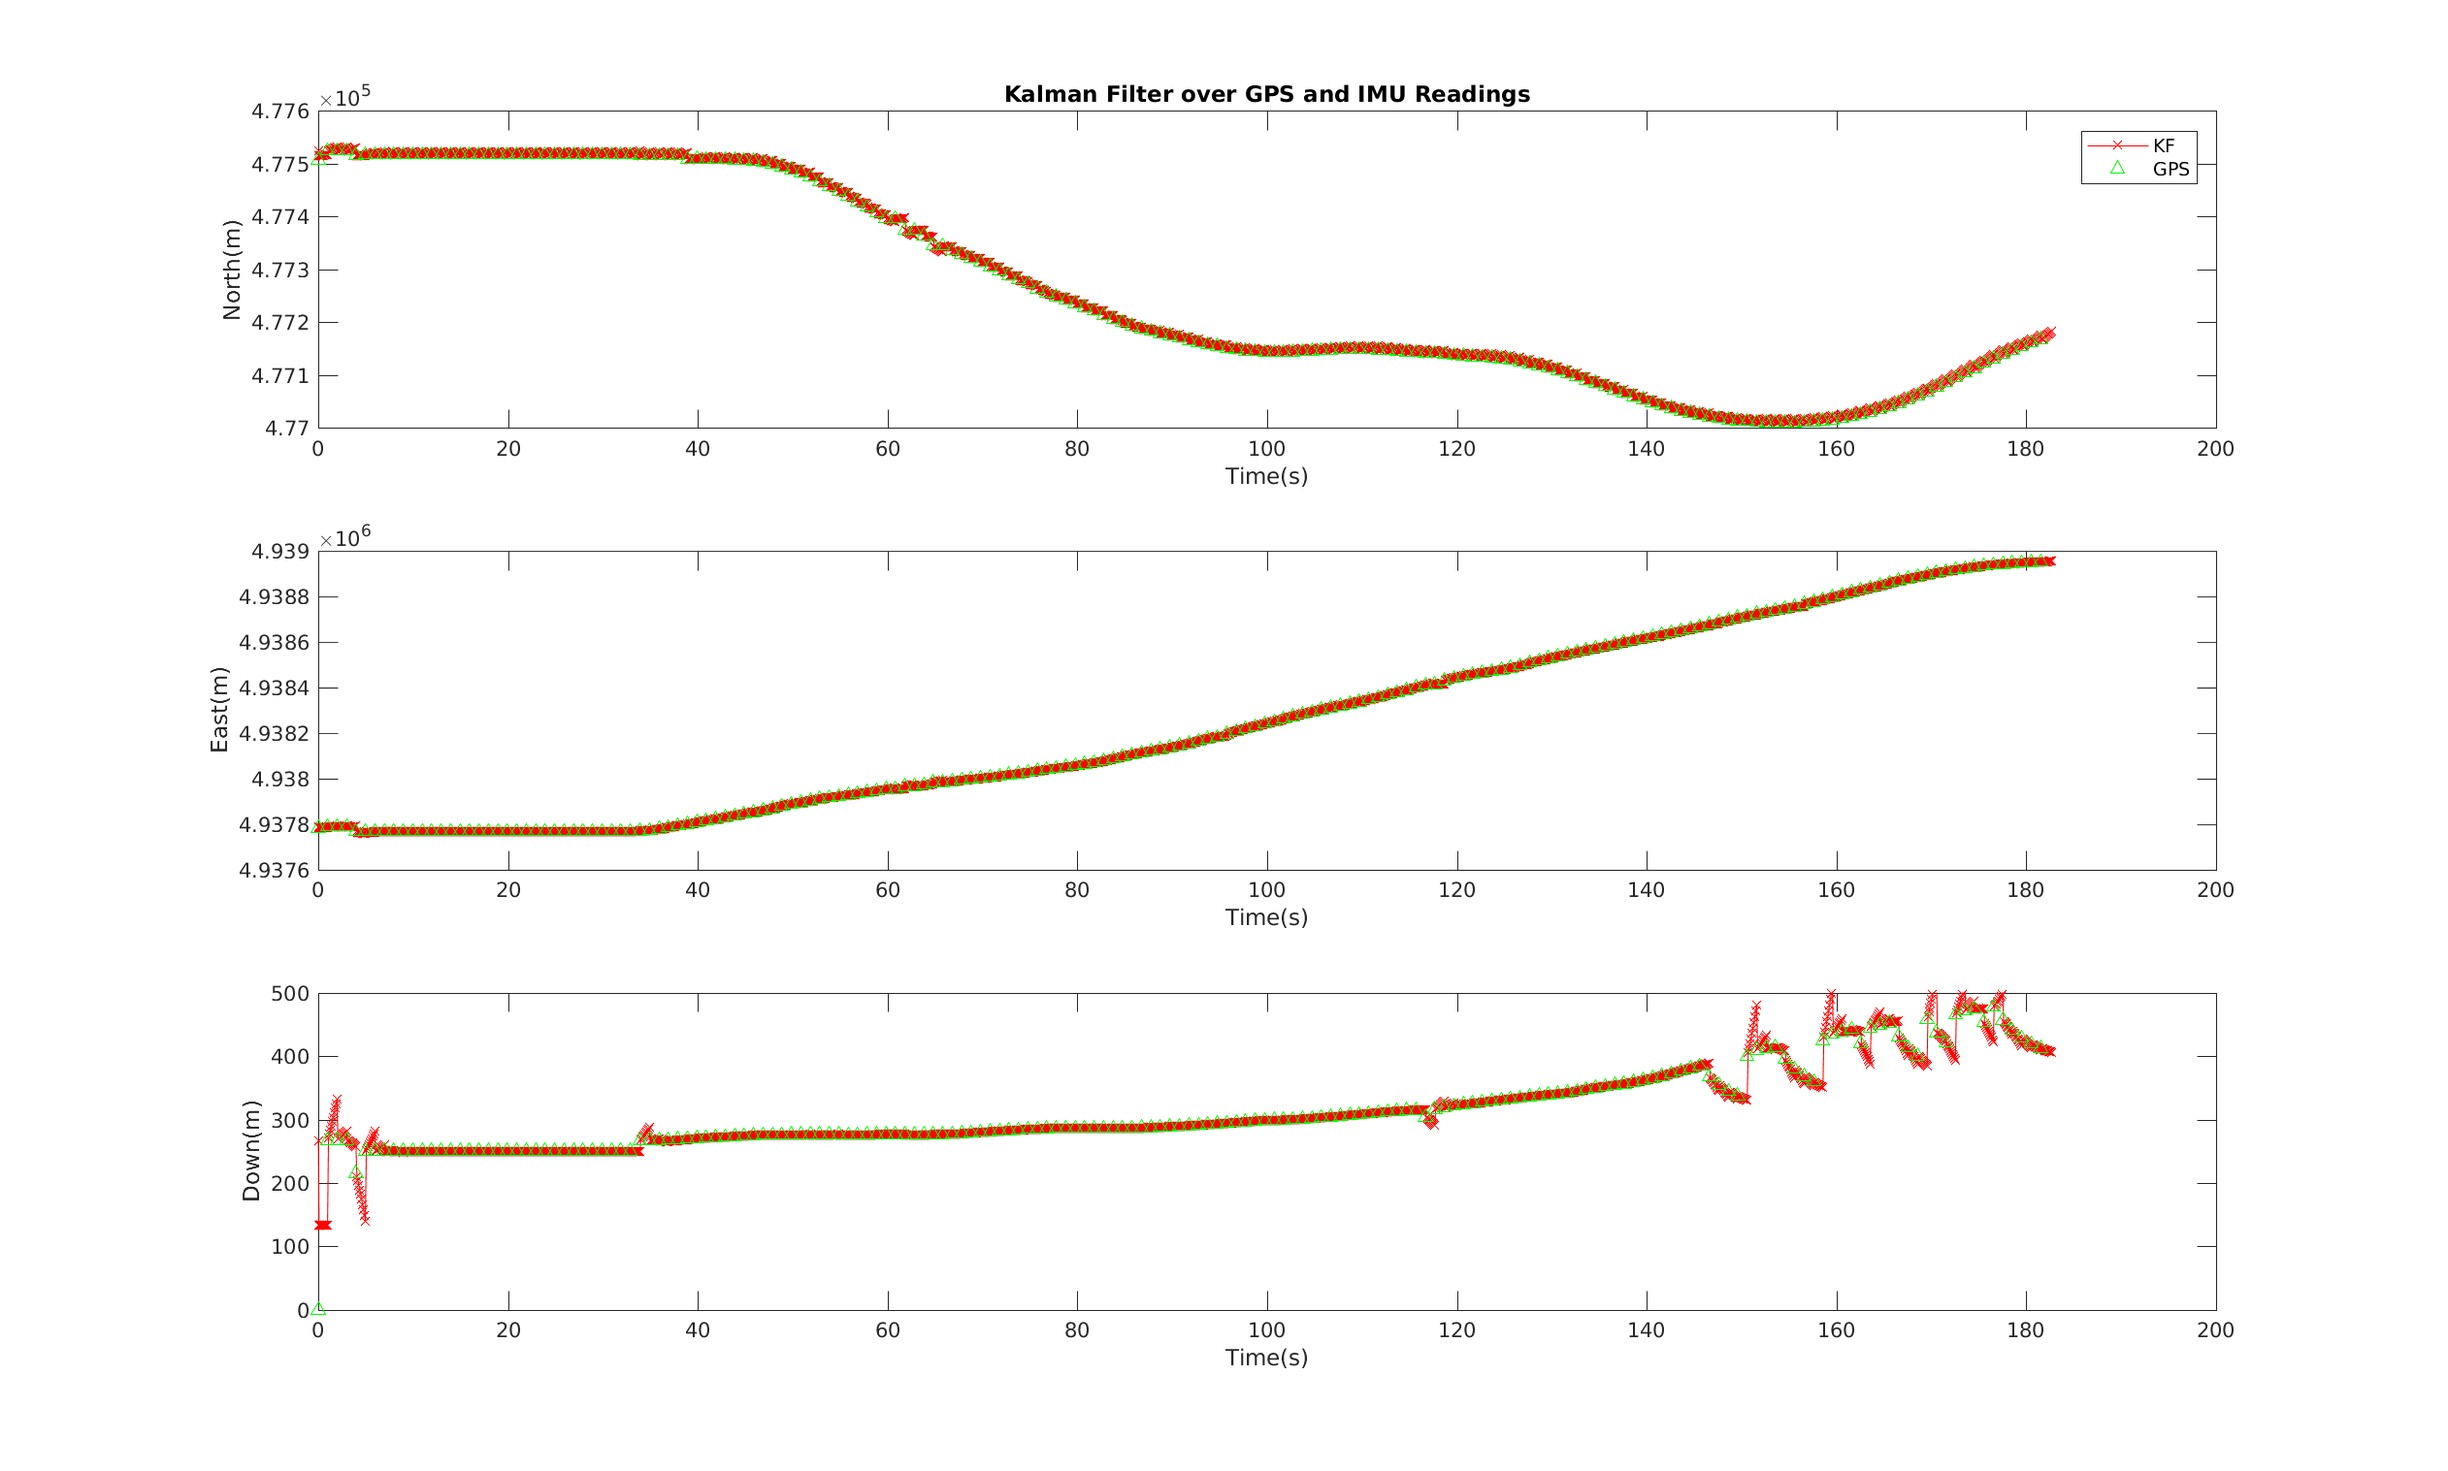
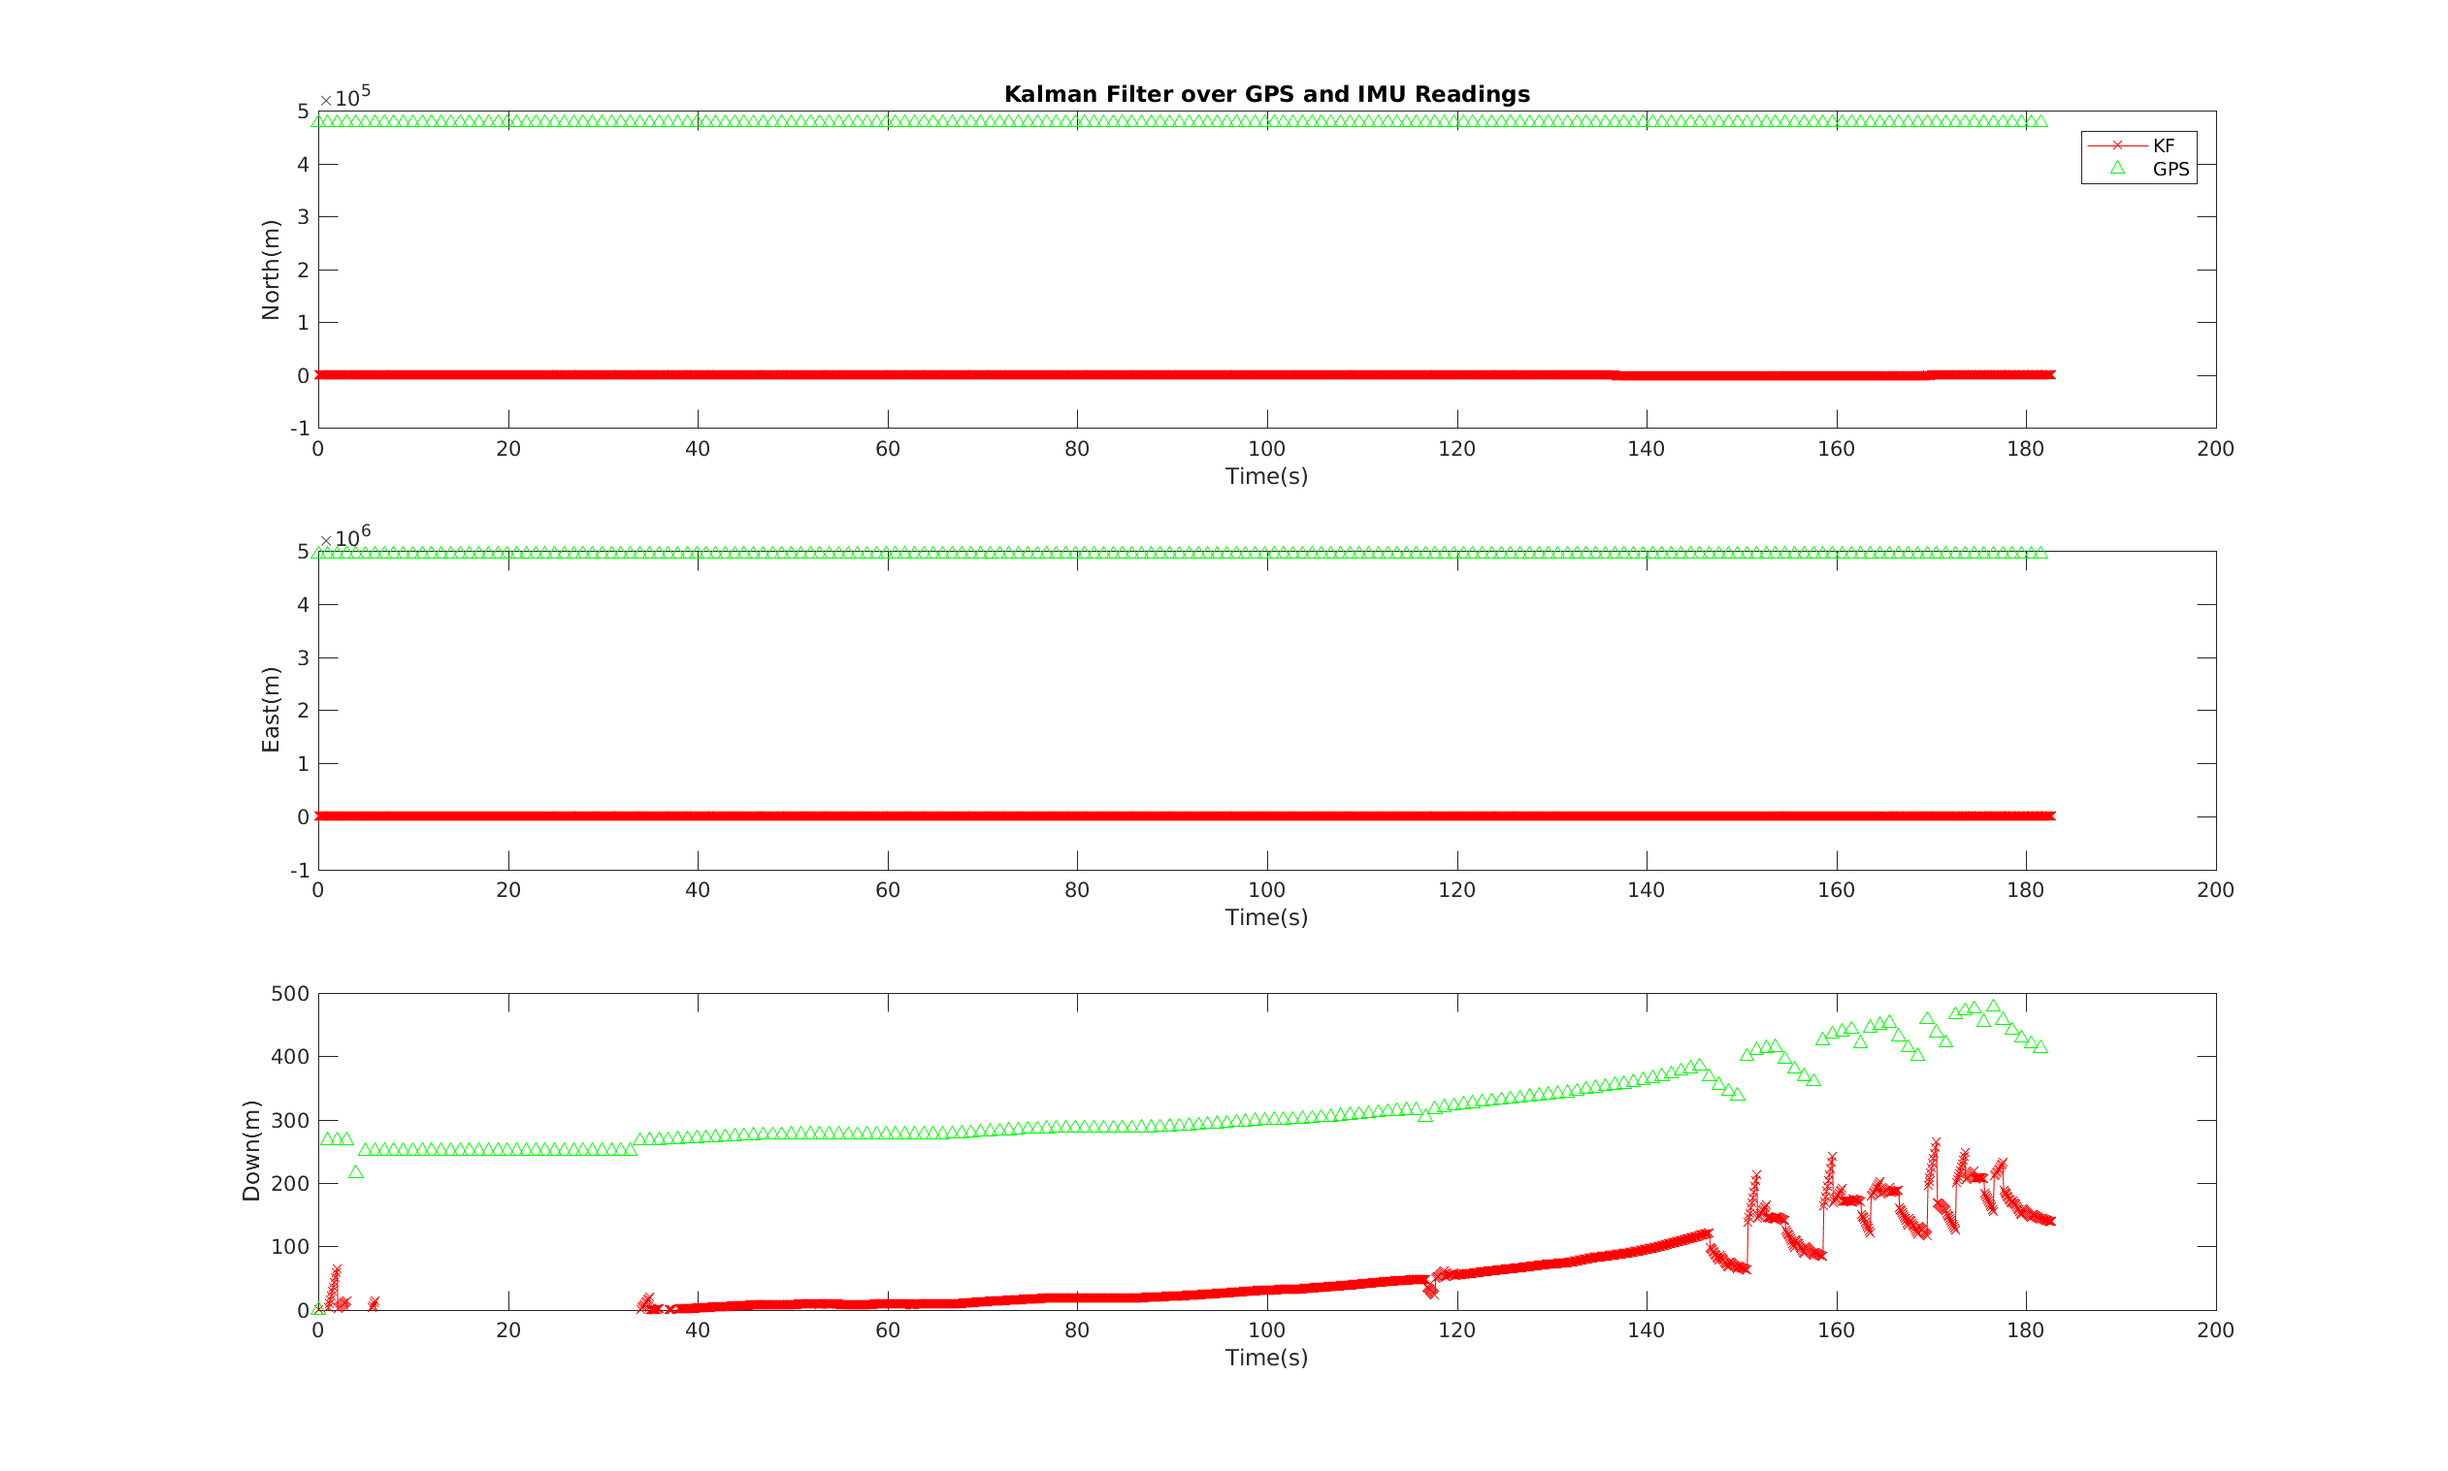
minor changes to rescale images

diff --git a/Project/run_KF_GPS_IMU.m b/Project/run_KF_GPS_IMU.m
@@ -15,7 +15,7 @@ dataFile = strcat('mlt_20180307_172737_182.csv');
 %%%%%%%%%%%%%%%%%%%%%%%%%%%%%%%%%%%%%%%%%%%%%%%%%%%%%%%%%%%%%%%%%%%%%%%%%%%
 
 % load(dataFile);    % Contains the noisy samples of vertical velocity
-% data = readDataCSV_SP(dataFile);
+data = readDataCSV_SP(dataFile);
 
 % Now apply the Kalman filter
 % state is [x,x_d, x_dd, y, y_d, y_dd, z, z_d, z_dd, roll, roll_d, pitch,
@@ -120,11 +120,10 @@ end
 
 
 pts = 10;
-% t_steps = (1:length(IGPS.x_all(1:pts:end-1)))*dt;
-% t_steps_IMU = data.IMU_time(1:pts:end-1,1)-data.IMU_time(1);
+GPS=GPS.zeroStart(); KF=KF.zeroStart(); GPS_t=GPS_t.zeroStart()
 t_step_IMU = data.IMU_time(1:pts:length(IMU.x_all),1)-data.IMU_time(1);
 t_step_GPS = data.GPS_time(1:end-1,1)-data.GPS_time(1);
-% t_steps = data.IMU_time(1:pts:end-1);
+
 
 % KF over GPS
 figure('Name', 'KF over GPS', 'units','normalized','outerposition',[0 0 1 1])

diff --git a/Project/KF_GPS_IMU.m b/Project/KF_GPS_IMU.m
@@ -108,6 +108,11 @@ classdef KF_GPS_IMU
             R = Ry * Rx * Rz;
         end
         
+        function obj = zeroStart(obj)
+            obj.x_all = obj.x_all - obj.x_all(1);
+            obj.y_all = obj.y_all - obj.y_all(1);
+            obj.z_all = obj.z_all - obj.z_all(1);
+        end
         function obj = saveData(obj)
             obj.x_all = [obj.x_all; obj.post.x(1)];
             obj.y_all = [obj.y_all; obj.post.x(4)];
